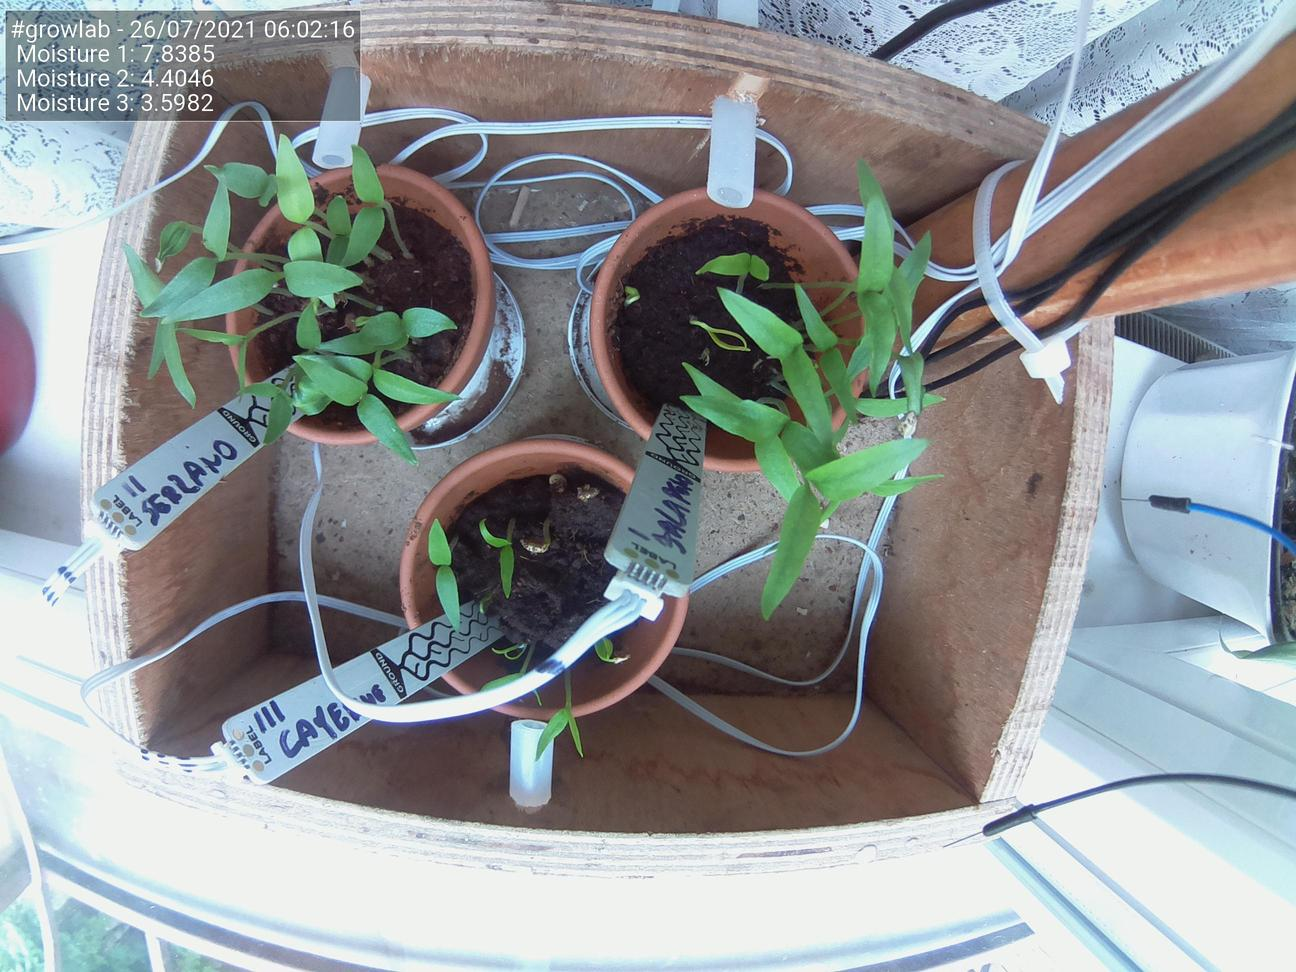
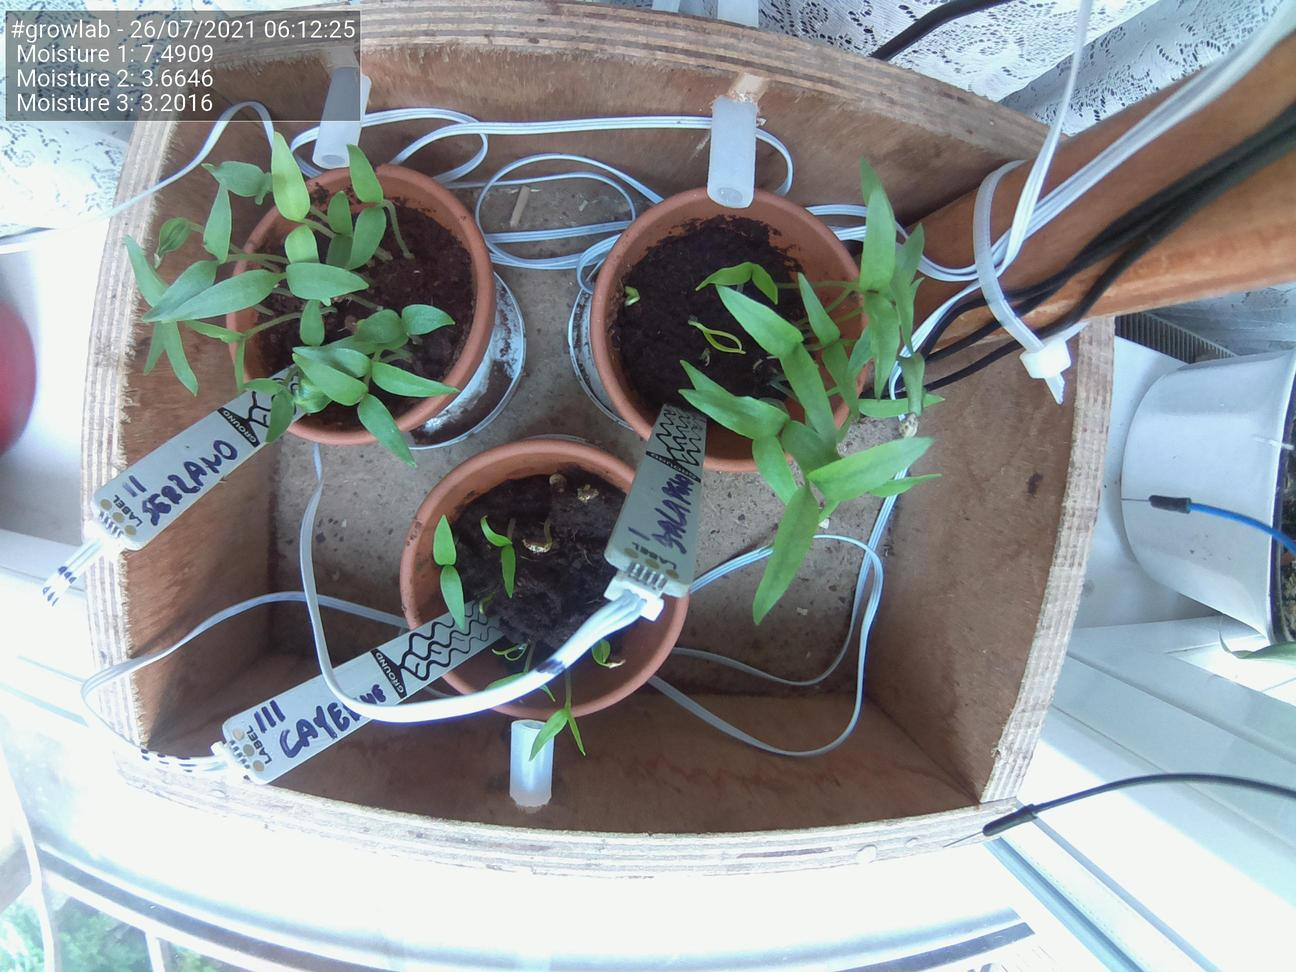
Update images at Mon 26 Jul 06:12:31 BST 2021

diff --git a/docs/index.html b/docs/index.html
@@ -51,25 +51,25 @@
                                 <td>Date</td>
                                 <td>26/07/2021</td>
                                 <td>Time</td>
-                                <td>06:02:16</td>
+                                <td>06:12:25</td>
                             </tr>
                             <tr>
                                 <td>Temperature</td>
                                 <td>N/A</td>
                                 <td>Moisture 1</td>
-                                <td>7.8385</td>
+                                <td>7.4909</td>
                             </tr>
                             <tr>
                                 <td>Humidity</td>
                                 <td>N/A</td>
                                 <td>Moisture 2</td>
-                                <td>4.4046</td>
+                                <td>3.6646</td>
                             </tr>
                             <tr>
                                 <td>Pressure</td>
                                 <td>N/A</td>
                                 <td>Moisture 3</td>
-                                <td>3.5982</td>
+                                <td>3.2016</td>
                             </tr>
                         </tbody>
                     </table>
@@ -77,7 +77,7 @@
 
                 <h5>Latest image</h5>
                 <div style="width: 85%;">
-                            <img class="figure-img img-fluid rounded" src="./preview.jpg?uid=1627275741.685011">
+                            <img class="figure-img img-fluid rounded" src="./preview.jpg?uid=1627276351.5894485">
                 </div>
             </div>
         </div>
